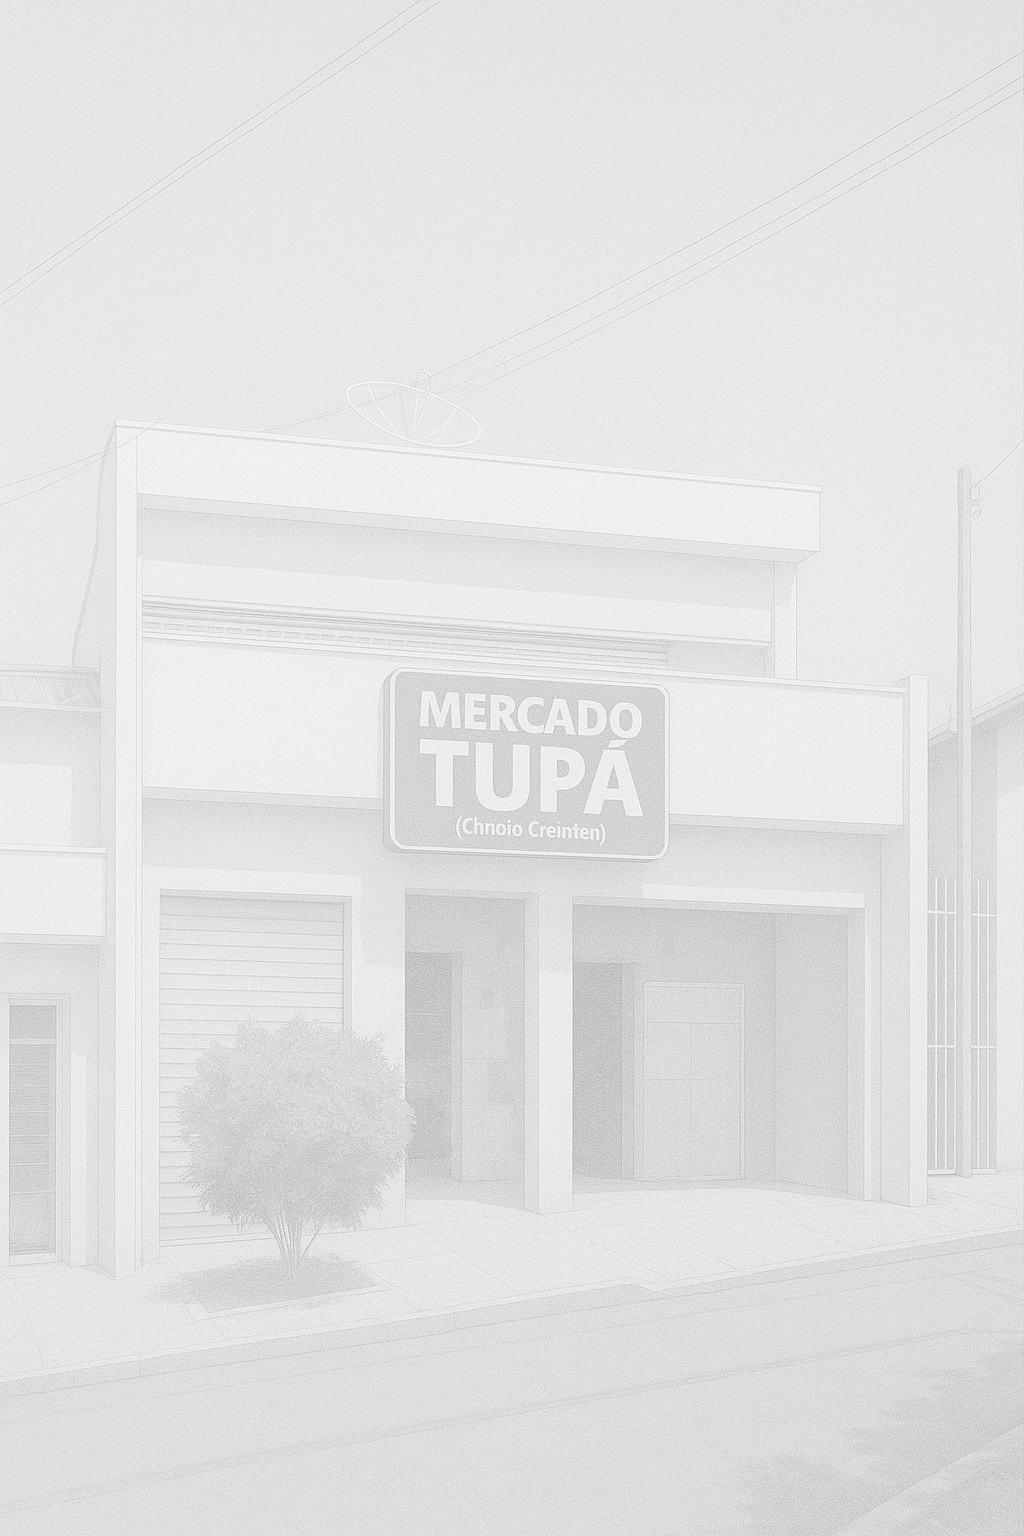
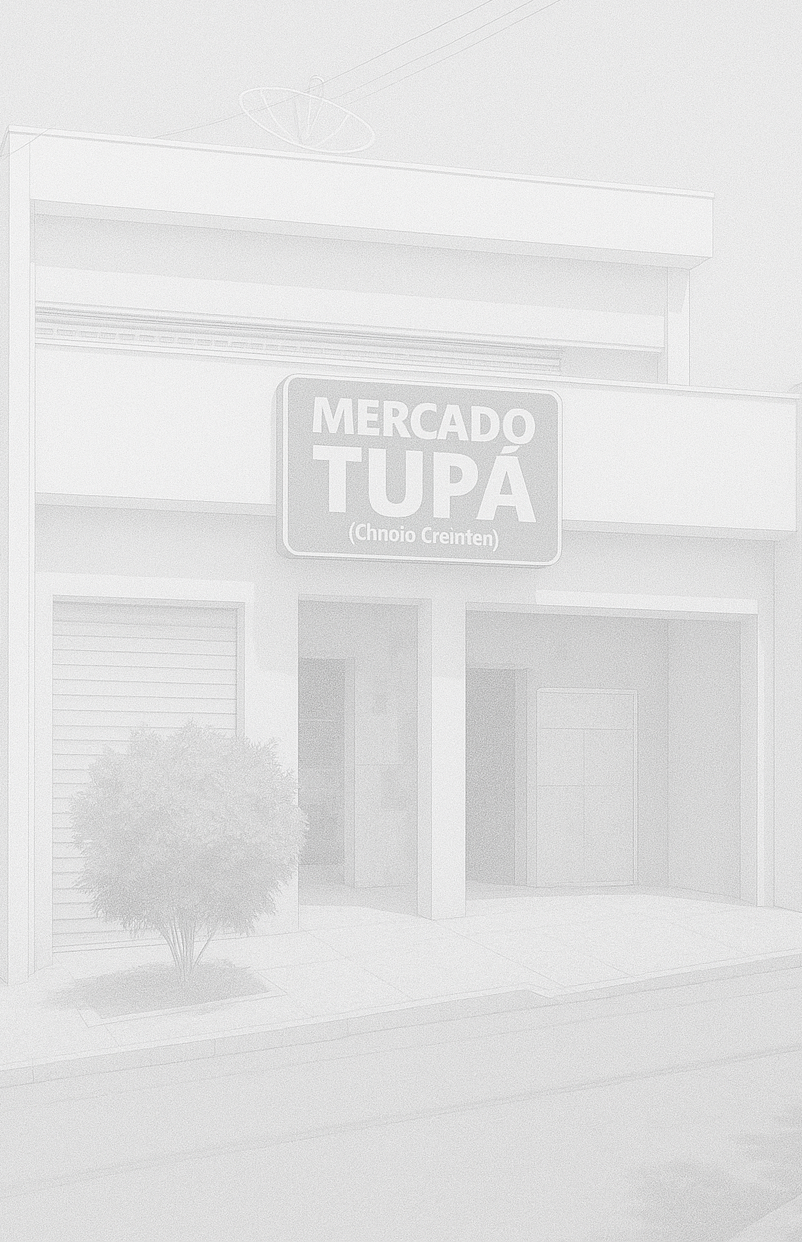
bg mobile adjusted

diff --git a/src/components/bg-img.tsx b/src/components/bg-img.tsx
@@ -40,7 +40,7 @@ export function FundoResponsivo() {
       <Image
         src={ImagemMobile}
         alt="Imagem de fundo"
-        className="absolute top-0 left-0 z-0 h-screen w-screen bg-cover bg-center"
+        className="absolute -top-4 left-0 z-0 h-screen w-screen bg-cover bg-center"
       />
     );
   }
